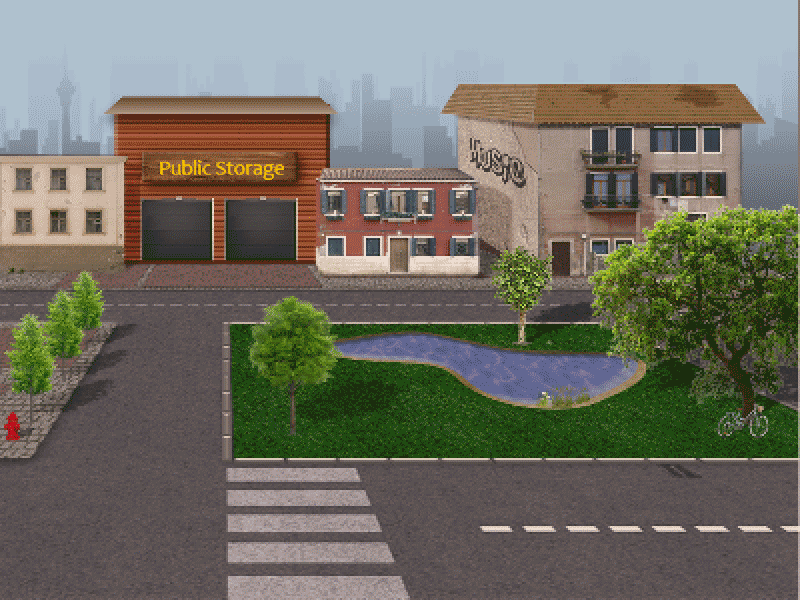
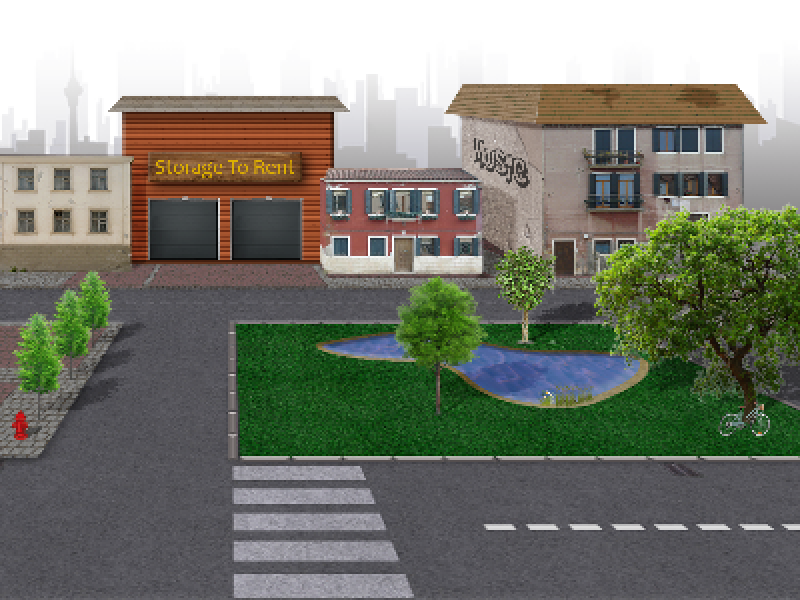
moving sun

diff --git a/entities/background_sky.py b/entities/background_sky.py
@@ -1,36 +1,21 @@
+from datetime import datetime
+
 import pygame
 
 class BackgroundSky():
     def __init__(self, current_time, screen):
         self.background = pygame.Surface(screen.get_size())
         self.background = self.background.convert()
+        self._sky_color_img = pygame.image.load('./resources/sky_color.png')
+        self._sun_img = pygame.image.load('./resources/sun.png')
         self.update_color(current_time)
 
-    def update_color(self, current_time):
-        color = sky_colors[current_time.hour]
-        self.background.fill(color)
+    def update_color(self, current_time: datetime):
+        self.background.fill(
+            self._sky_color_img.get_at((current_time.hour * 4 + current_time.minute // 15, 0))
+        )
 
-sky_colors =    {0: (57.71131094513168, 25.830361695399574, 49.515651532444096),
-                1: (76.3184043867496, 38.78587031315444, 74.73502009492589),
-                2: (91.2694379764145, 53.51073436806361, 100.43524918373076),
-                3: (103.56673540530109, 71.17109534045753, 126.71887379256091),
-                4: (112.53075177150505, 89.52883218153531, 149.26184677889597),
-                5: (119.9787654060993, 109.21539677820014, 168.81199175711953),
-                6: (127.51714415524008, 131.02637354339774, 185.81199175711953),
-                7: (135.49998099298676, 151.76477030199896, 198.26184677889597),
-                8: (145.4496849274891, 172.06105034734668, 207.7188737925609),
-                9: (159.1455443533125, 192.47195108721735, 215.43524918373075),
-                10: (175.55790068455823, 210.07078592257093, 221.7350200949259),
-                11: (195.55387606082235, 225.75779661312734, 228.51565153244408),
-                12: (195.55387606082235, 225.75779661312734, 228.51565153244408),
-                13: (175.55790068455823, 210.07078592257093, 221.7350200949259),
-                14: (159.1455443533125, 192.47195108721735, 215.43524918373075),
-                15: (145.4496849274891, 172.06105034734668, 207.7188737925609),
-                16: (135.49998099298676, 151.76477030199896, 198.26184677889597),
-                17: (127.51714415524008, 131.02637354339774, 185.81199175711953),
-                18: (119.9787654060993, 109.21539677820014, 168.81199175711953),
-                19: (112.53075177150505, 89.52883218153531, 149.26184677889597),
-                20: (103.56673540530109, 71.17109534045753, 126.71887379256091),
-                21: (91.2694379764145, 53.51073436806361, 100.43524918373076),
-                22: (76.3184043867496, 38.78587031315444, 74.73502009492589),
-                23: (57.71131094513168, 25.830361695399574, 49.515651532444096)}
+        if 4 <= current_time.hour <= 20:
+            x = current_time.hour + current_time.minute / 60
+            y = -(x/2 - 6) ** 2 + 16  # 0 to 16 curve
+            self.background.blit(self._sun_img, (750 - (x - 4) * 43, 200 - y * 20))

diff --git a/entities/truck.py b/entities/truck.py
@@ -38,6 +38,7 @@ class Truck(AnimatedSprite):
         self.destination = TRUCT_DESTINATION_LOCATION
         self.frames_at_destination = 0
         self.unload_n_frames = 60
+        self.unloading = False
 
     def update(self):
 
@@ -45,6 +46,9 @@ class Truck(AnimatedSprite):
             self.frames_at_destination += 1
             if self.frames_at_destination > self.unload_n_frames:
                 super().move(Vector2(self.speed/2,0))
+                self.unloading = False
+            else:
+                self.unloading = True
         else:
             super().move(Vector2(self.speed,0))        
         
@@ -55,6 +59,7 @@ class FleetOfTrucks():
     def __init__(self):
         self.trucks = pygame.sprite.Group([])
         self.orders_shipped = []
+        self.open_storage_img = pygame.image.load(f'./resources/storage-right-open.png')
 
     def update(self, lemonade_stand, current_datetime):
         for order in lemonade_stand.lemonstock.pending_orders:
@@ -75,6 +80,10 @@ class FleetOfTrucks():
         self.trucks.update()
 
     def draw(self, screen):
+        # open garage doors
+        if any(t.unloading for t in self.trucks):
+            screen.blit(self.open_storage_img, (230, 199))
+
         self.trucks.draw(screen)
 
 
